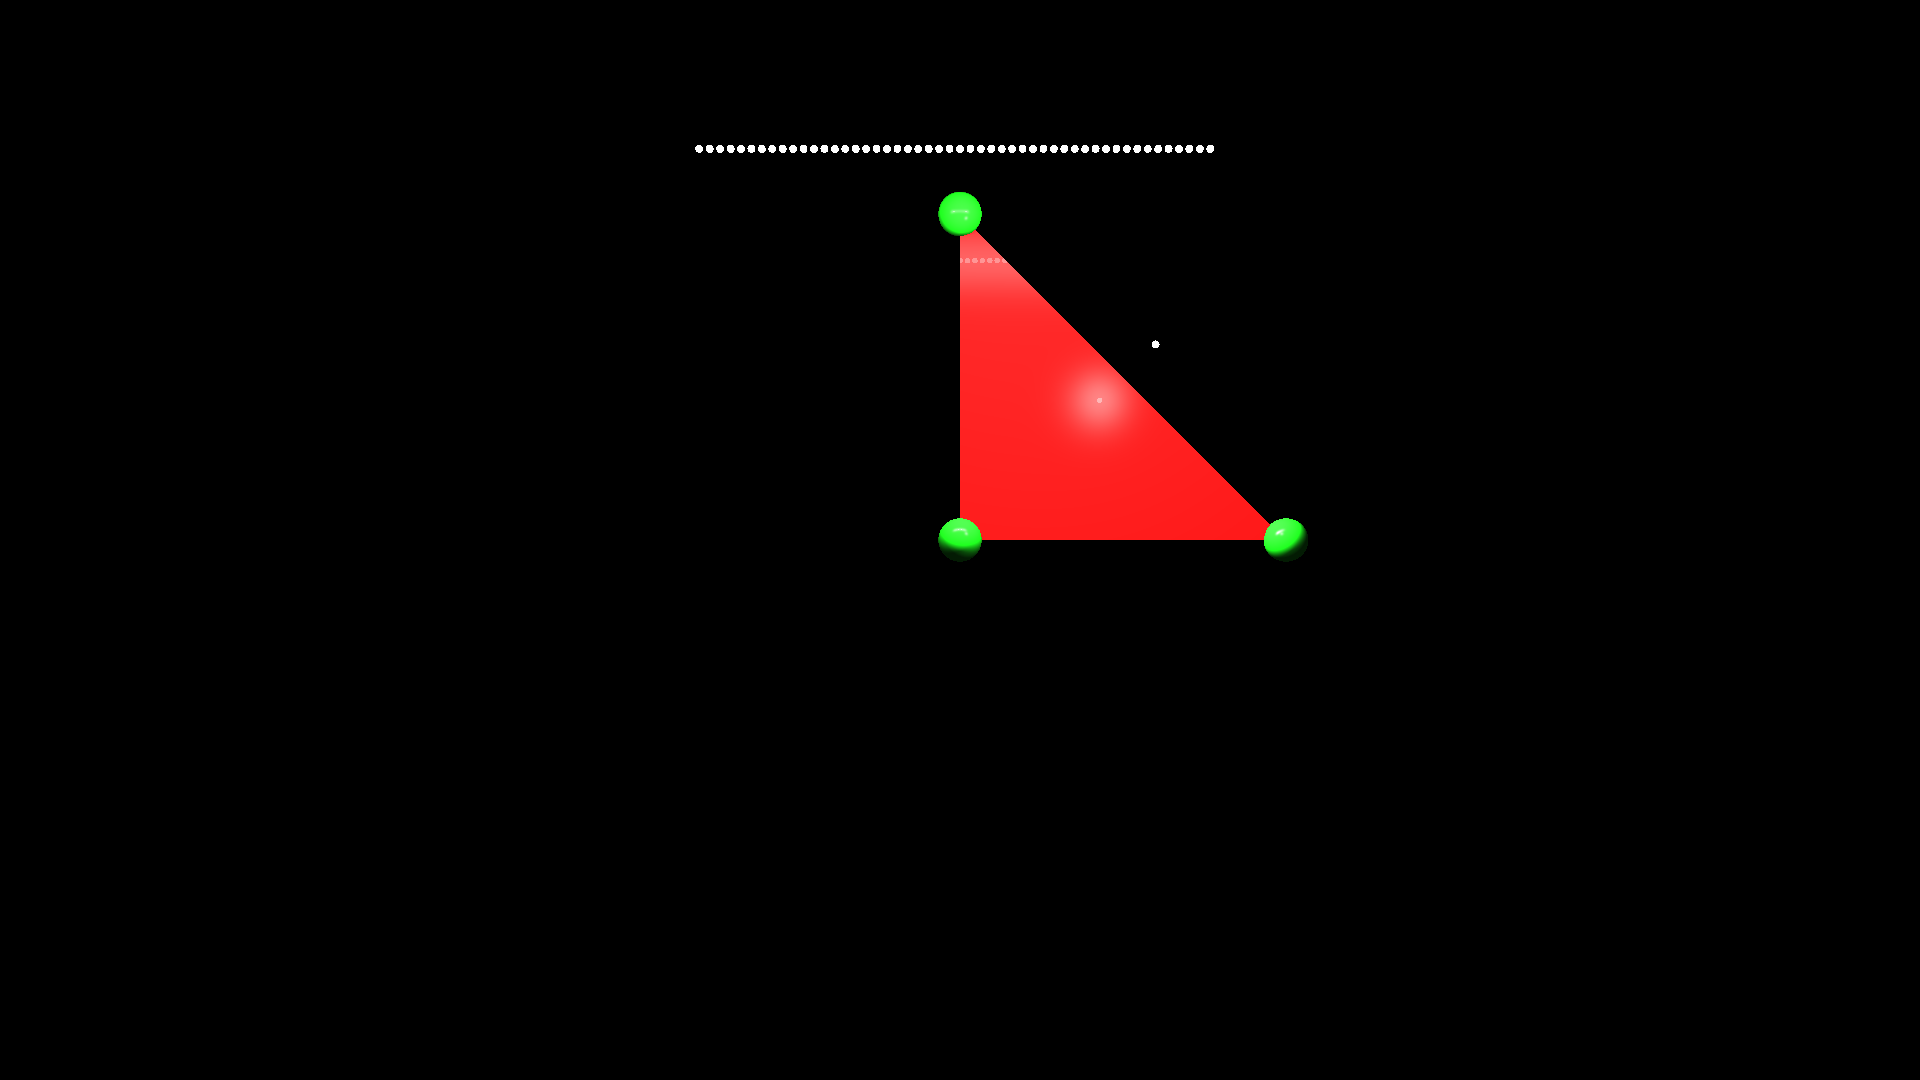
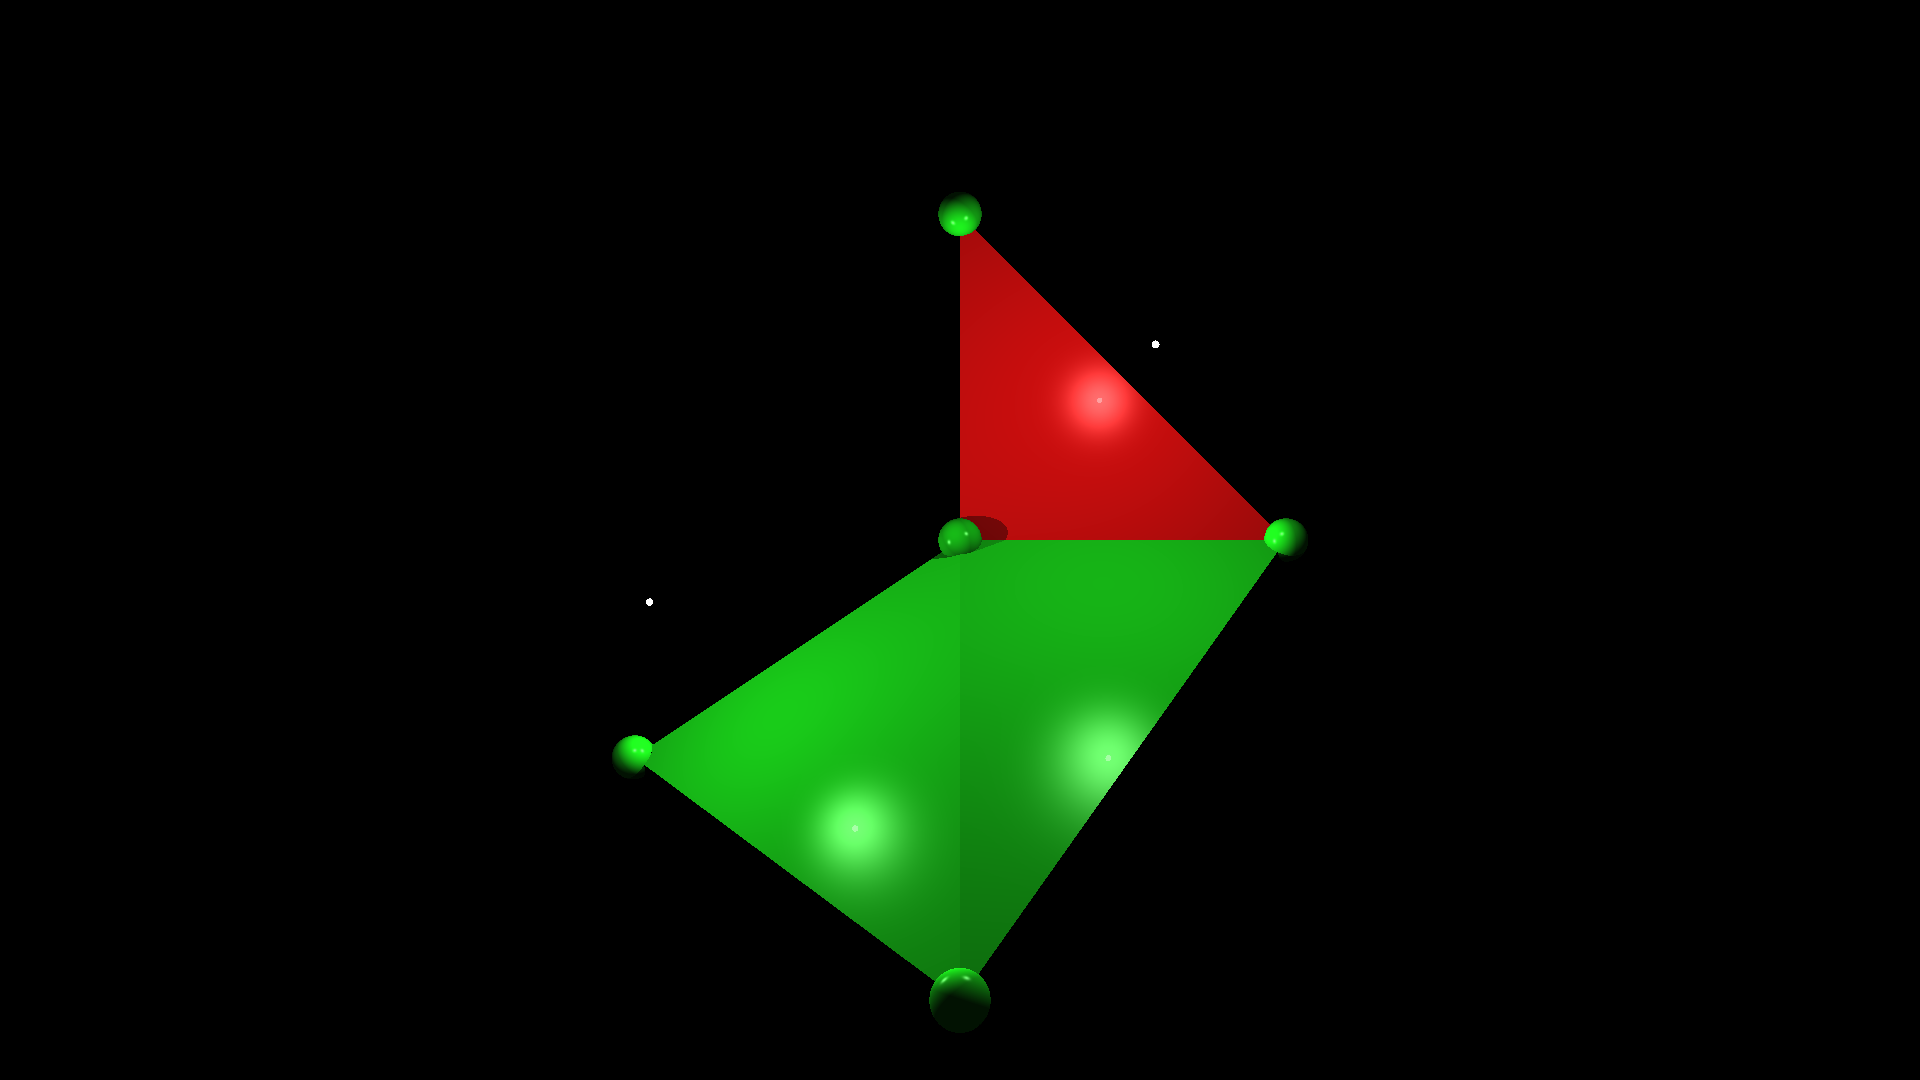
test code for overlapping triangles

Changed region(s): [[0.3125, 0.1833, 0.6875, 0.9472], [0.375, 0.1222, 0.625, 0.1528]]

diff --git a/RayTracerConsole/Program.cs b/RayTracerConsole/Program.cs
@@ -11,44 +11,62 @@ namespace RayTracer
             int width = height * 16 / 9;
             Renderer rd = new Renderer(width, height, new Vector3(0, 0, 100), new Vector3(0, 0, 0));
 
-            //List<IObject> objects = GetAxis(50f);
             var objects = new List<IObject>();
-            objects.Add(new Sphere(15f, new Vector3(50f, 20f, -16f), new Material("obsidian")));
-            objects.Add(new Sphere(15f, new Vector3(-20f, 10f, -5f), new Material("mirror")));
-            objects.Add(new Sphere(4f, new Vector3(0, -15, 0), new Material("ruby")));
 
-            //objects.Add(new Sphere(4f, new Vector3(15f, 10f, 35), new Material("copper")));
+            objects.Add(new Sphere(2f, new Vector3(0, 30, -20), new Material("emerald")));
+            objects.Add(new Sphere(2f, new Vector3(0, 0, -20), new Material("emerald")));
+            objects.Add(new Sphere(2f, new Vector3(30, 0, -20), new Material("emerald")));
+
+            objects.Add(
+                new Triangle(
+                    new Vector3(30, 0, -20),
+                    new Vector3(0, 0, -20),
+                    new Vector3(0, 30, -20),
+                    new Material("ruby")
+                )
+            );
+
+            objects.Add(new Sphere(2f, new Vector3(0, -30, 15), new Material("emerald")));
+
+            objects.Add(
+                new Triangle(
+                    new Vector3(30, 0, -20),
+                    new Vector3(0, 0, -20),
+                    new Vector3(0, -30, 15),
+                    new Material("emerald")
+                )
+            );
+            objects.Add(new Sphere(2f, new Vector3(-30, -20, -20), new Material("emerald")));
+
+            objects.Add(
+                new Triangle(
+                    new Vector3(-30, -20, -20),
+                    new Vector3(0, 0, -20),
+                    new Vector3(0, -30, 15),
+                    new Material("emerald")
+                )
+            );
 
             var lights = new List<LightSource>();
-
             lights.Add(
                 new LightSource()
                 {
-                    position = new Vector3(50, -50 / 2, 0),
+                    position = new Vector3(15, 15, 0),
                     ambientComponent = new Vector4(.2f, .2f, .2f, .2f),
                     DiffuseComponent = new Vector4(1f, 1f, 1f, 1f),
-                    SpecularComponent = new Vector4(1f, 1f, 1f, 1f),
+                    SpecularComponent = new Vector4(1f, 1f, 1f, 1f)
                 }
             );
             lights.Add(
                 new LightSource()
                 {
-                    position = new Vector3(0, -30 / 2, 0),
+                    position = new Vector3(-25, -5, -5),
                     ambientComponent = new Vector4(.2f, .2f, .2f, .2f),
                     DiffuseComponent = new Vector4(1f, 1f, 1f, 1f),
-                    SpecularComponent = new Vector4(1f, 1f, 1f, 1f),
+                    SpecularComponent = new Vector4(1f, 1f, 1f, 1f)
                 }
             );
-            lights.Add(
-                new LightSource()
-                {
-                    position = new Vector3(50, 30, 0),
-                    ambientComponent = new Vector4(.2f, .2f, .2f, .2f),
-                    DiffuseComponent = new Vector4(1f, 1f, 1f, 1f),
-                    SpecularComponent = new Vector4(1f, 1f, 1f, 1f),
-                }
-            );
-            //AddRectangularLight(lights, .5f, new Vector3(-30, 20, 50), new Vector3(0, 30, -20));
+            //AddRectangularLight(lights, .8f, new Vector3(-20, 30, 0), new Vector3(20, 30, 0));
 
             var img = rd.Render(objects, lights, new Image<Rgb24>(width, height));
             img.SaveAsPng("output.png");
